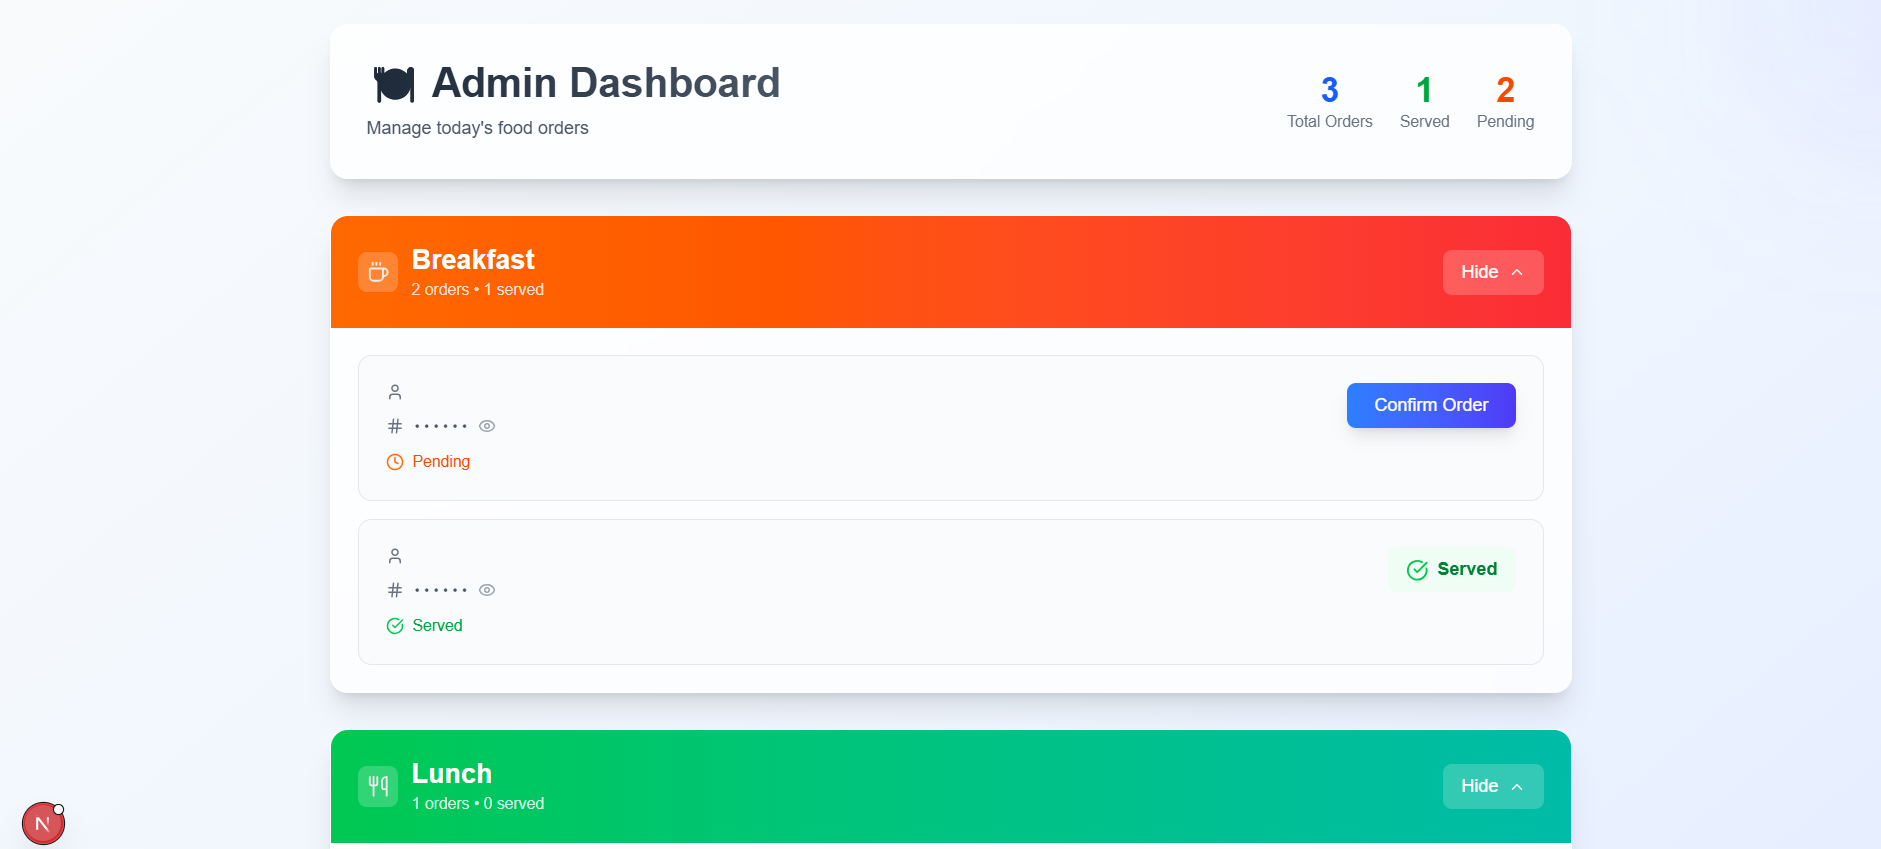
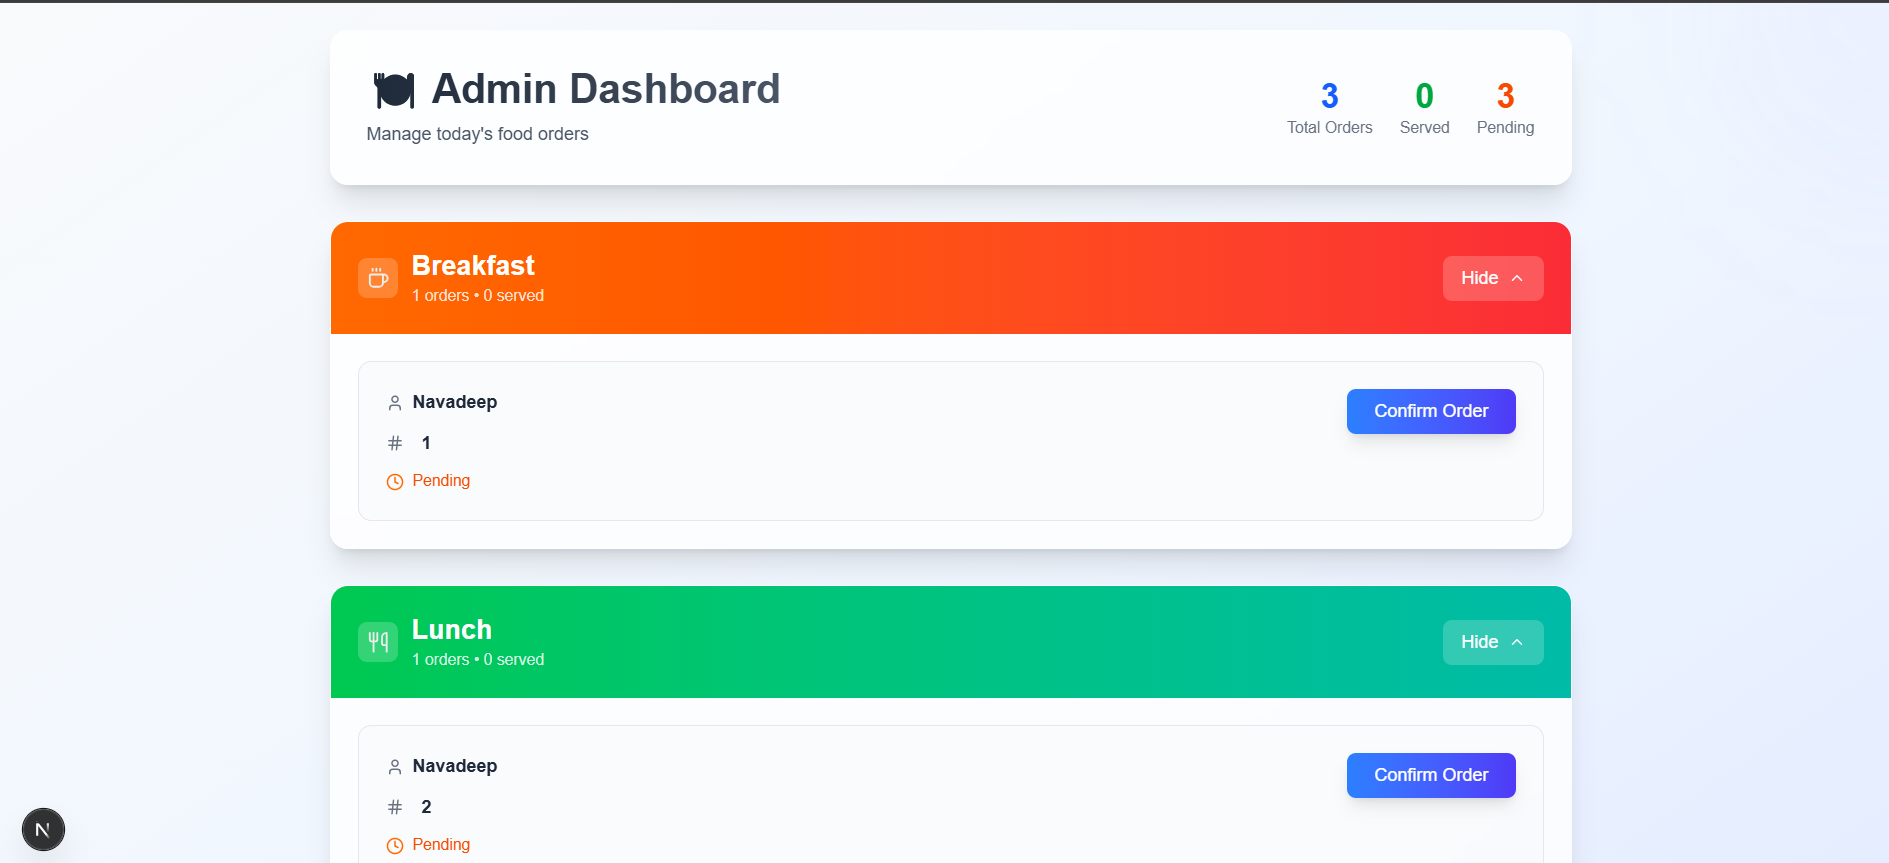
fdfd

diff --git a/frontend/canteen_app_admin/src/app/page.jsx b/frontend/canteen_app_admin/src/app/page.jsx
@@ -48,6 +48,7 @@ export default function AdminDashboard() {
 
         if (res.ok) {
           const data = await res.json();
+          console.log(data)
           const grouped = {
             breakfast: data.filter((o) => o.type === "lunch"),
             lunch: data.filter((o) => o.type === "tea"),
@@ -94,6 +95,8 @@ export default function AdminDashboard() {
       });
 
       const result = await res.json();
+
+      
 
       if (res.ok) {
         setStatusMsg("✅ Order marked as served!");
@@ -210,23 +213,25 @@ export default function AdminDashboard() {
                         <div className="space-y-3 flex-1">
                           <div className="flex items-center space-x-2">
                             <User className="w-4 h-4 text-gray-500" />
-                            <span className="font-semibold text-gray-800">{order.studentName}</span>
+                            <span className="font-semibold text-gray-800">{order.student_name}</span>
                           </div>
                           
                           <div className="flex items-center space-x-2">
                             <Hash className="w-4 h-4 text-gray-500" />
                             <span className="text-gray-600 font-mono text-sm">
-                              {showOtp[order._id] ? order.otp : '••••••'}
+                              {/* {showOtp[order._id] ? order.otp : '••••••'} */}
                             </span>
                             <button
-                              onClick={() => toggleOtpVisibility(order._id)}
+                              onClick={() => toggleOtpVisibility(order.order_id)}
                               className="text-gray-400 hover:text-gray-600 transition-colors duration-200"
                             >
-                              {showOtp[order._id] ? (
+                              {/* {showOtp[order._id] ? (
                                 <EyeOff className="w-4 h-4" />
                               ) : (
                                 <Eye className="w-4 h-4" />
-                              )}
+                              )} */}
+                              <span className="font-semibold text-gray-800">{order.order_id}</span>
+
                             </button>
                           </div>
 

diff --git a/backend/app.py b/backend/app.py
@@ -3,6 +3,7 @@ from flask_cors import CORS
 import mysql.connector
 import jwt
 import datetime
+import random
 
 app = Flask(__name__)
 CORS(app)
@@ -219,7 +220,8 @@ def create_booking():
             INSERT INTO orders (student_id, otp, status, date, type)
             VALUES (%s, %s, %s, %s, %s)
         """
-        otp = "123456"  # Generate proper OTP in production
+        # otp = "123456"  # Generate proper OTP in production
+        otp = str(random.randint(100000, 999999))
         status = "booked"
         cursor.execute(insert, (student_id, otp, status, now, meal_type))
         conn.commit()
